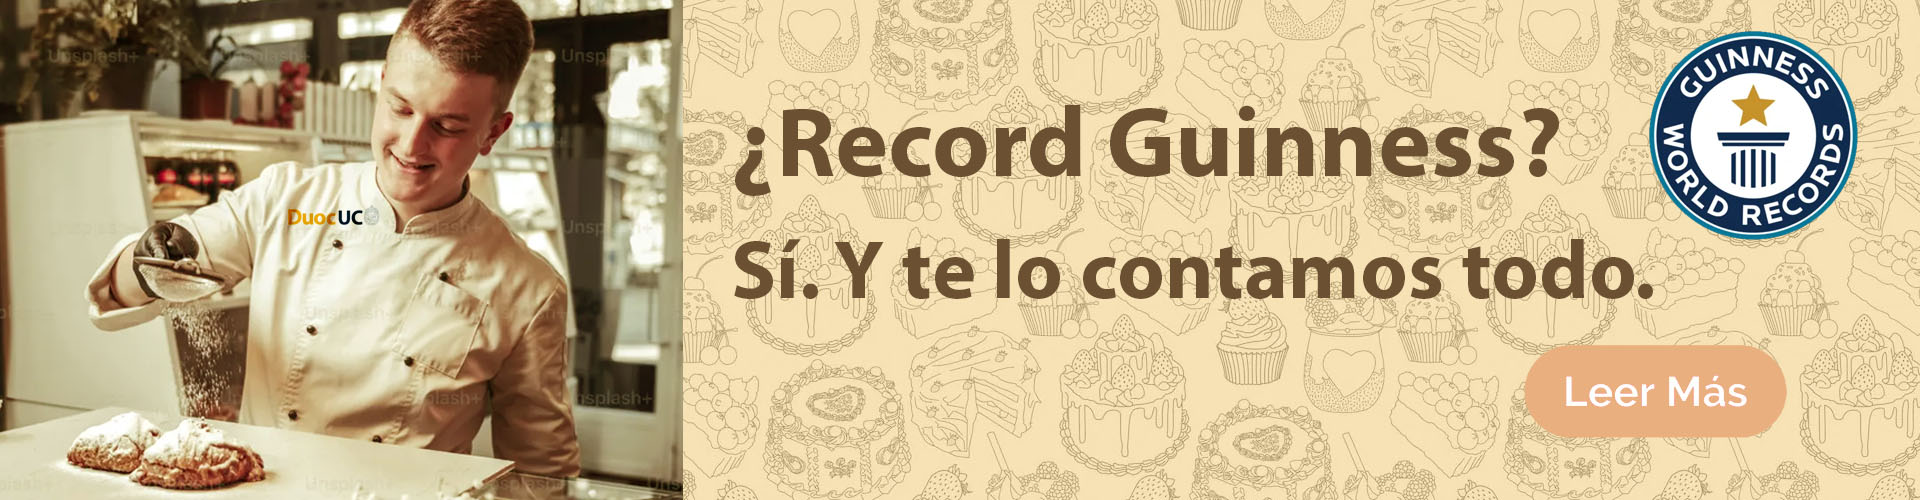
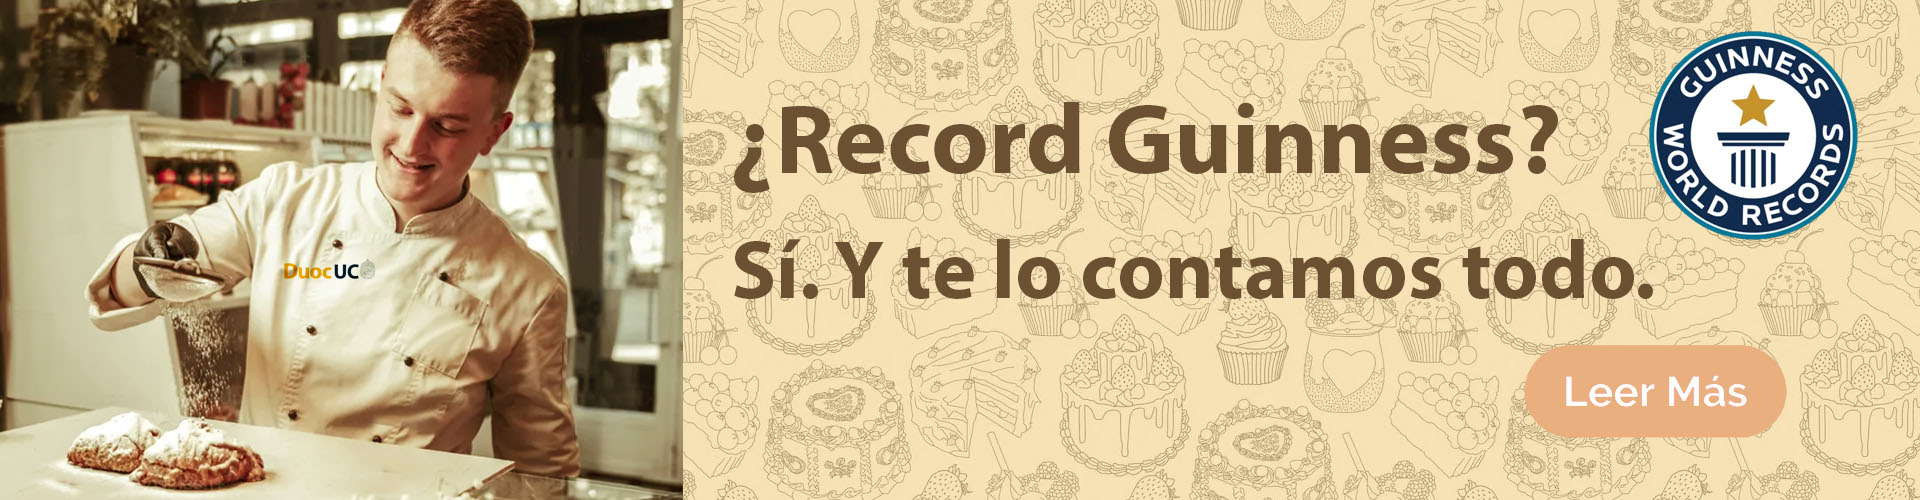
Se actualizo el nombre de branding para las paginas, se actualizó detalle estetico en imagen carrusel

diff --git a/carrito.html b/carrito.html
@@ -11,7 +11,7 @@
 <!--menu de inicio aqui-->
         <nav class="navbar navbar-expand-lg navbar-light fixed-top">
             <div class="container px-4 px-lg-5">
-                <a class="navbar-logotipo" href="index.html">Letsap Cakes</a>
+                <a class="navbar-logotipo" href="index.html">Mil Sabores</a>
                 <button class="navbar-toggler" type="button" data-bs-toggle="collapse" data-bs-target="#navbarResponsive" aria-controls="navbarResponsive" aria-expanded="false" aria-label="Toggle navigation">
                     Menu
                 </button>
@@ -43,7 +43,7 @@
                 <div class="row gx-4 gx-lg-5 justify-content-center">
                     <div class="col-md-10 col-lg-8 col-xl-7">
                         <div class="inicio-titulo">
-                            <h1>Letsap Cakes</h1>
+                            <h1>Mil Sabores</h1>
                             <span class="inicio-eslogan">Deliciosos pasteles tradicionales directo a tu mesa <br>
                                 <i class="icon-award"></i>Récord Guinness, Torta más grande del mundo 1995
                             </span>

diff --git a/detalle.html b/detalle.html
@@ -16,7 +16,7 @@
 <!--menu de inicio aqui-->
         <nav class="navbar navbar-expand-lg navbar-light fixed-top">
             <div class="container px-4 px-lg-5">
-                <a class="navbar-logotipo" href="index.html">Letsap Cakes</a>
+                <a class="navbar-logotipo" href="index.html">Mil Sabores</a>
                 <button class="navbar-toggler" type="button" data-bs-toggle="collapse" data-bs-target="#navbarResponsive" aria-controls="navbarResponsive" aria-expanded="false" aria-label="Toggle navigation">
                     Menu
                 </button>
@@ -49,7 +49,7 @@
                 <div class="row gx-4 gx-lg-5 justify-content-center">
                     <div class="col-md-10 col-lg-8 col-xl-7">
                         <div class="inicio-titulo">
-                            <h1>Letsap Cakes</h1>
+                            <h1>Mil Sabores</h1>
                             <span class="inicio-eslogan">Deliciosos pasteles tradicionales directo a tu mesa <br>
                                 <i class="icon-award"></i>Récord Guinness, Torta más grande del mundo 1995
                             </span>

diff --git a/nosotros.html b/nosotros.html
@@ -16,7 +16,7 @@
 <!--menu de inicio aqui-->
         <nav class="navbar navbar-expand-lg navbar-light fixed-top">
             <div class="container px-4 px-lg-5">
-                <a class="navbar-logotipo" href="index.html">Letsap Cakes</a>
+                <a class="navbar-logotipo" href="index.html">Mil Sabores</a>
                 <button class="navbar-toggler" type="button" data-bs-toggle="collapse" data-bs-target="#navbarResponsive" aria-controls="navbarResponsive" aria-expanded="false" aria-label="Toggle navigation">
                     Menu
                 </button>
@@ -48,7 +48,7 @@
                 <div class="row gx-4 gx-lg-5 justify-content-center">
                     <div class="col-md-10 col-lg-8 col-xl-7">
                         <div class="inicio-titulo">
-                            <h1>Letsap Cakes</h1>
+                            <h1>Mil Sabores</h1>
                             <span class="inicio-eslogan">Deliciosos pasteles tradicionales directo a tu mesa <br>
                                 <i class="icon-award"></i>Récord Guinness, Torta más grande del mundo 1995
                             </span>

diff --git a/productos.html b/productos.html
@@ -17,7 +17,7 @@
 <!--menu de inicio aqui-->
         <nav class="navbar navbar-expand-lg navbar-light fixed-top">
             <div class="container px-4 px-lg-5">
-                <a class="navbar-logotipo" href="index.html">Letsap Cakes</a>
+                <a class="navbar-logotipo" href="index.html">Mil Sabores</a>
                 <button class="navbar-toggler" type="button" data-bs-toggle="collapse" data-bs-target="#navbarResponsive" aria-controls="navbarResponsive" aria-expanded="false" aria-label="Toggle navigation">
                     Menu
                 </button>
@@ -49,7 +49,7 @@
                 <div class="row gx-4 gx-lg-5 justify-content-center">
                     <div class="col-md-10 col-lg-8 col-xl-7">
                         <div class="inicio-titulo">
-                            <h1>Letsap Cakes</h1>
+                            <h1>Mil Sabores</h1>
                             <span class="inicio-eslogan">Deliciosos pasteles tradicionales directo a tu mesa <br>
                                 <i class="icon-award"></i>Récord Guinness, Torta más grande del mundo 1995
                             </span>

diff --git a/blogs.html b/blogs.html
@@ -16,7 +16,7 @@
 <!--menu de inicio aqui-->
         <nav class="navbar navbar-expand-lg navbar-light fixed-top">
             <div class="container px-4 px-lg-5">
-                <a class="navbar-logotipo" href="index.html">Letsap Cakes</a>
+                <a class="navbar-logotipo" href="index.html">Mil Sabores</a>
                 <button class="navbar-toggler" type="button" data-bs-toggle="collapse" data-bs-target="#navbarResponsive" aria-controls="navbarResponsive" aria-expanded="false" aria-label="Toggle navigation">
                     Menu
                 </button>

diff --git a/contacto.html b/contacto.html
@@ -17,7 +17,7 @@
     <!--menu de inicio aqui-->
     <nav class="navbar navbar-expand-lg navbar-light fixed-top">
         <div class="container px-4 px-lg-5">
-            <a class="navbar-logotipo" href="index.html">Letsap Cakes</a>
+            <a class="navbar-logotipo" href="index.html">Mil Sabores</a>
             <button class="navbar-toggler" type="button" data-bs-toggle="collapse" data-bs-target="#navbarResponsive" aria-controls="navbarResponsive" aria-expanded="false" aria-label="Toggle navigation">
                 Menu
             </button>
